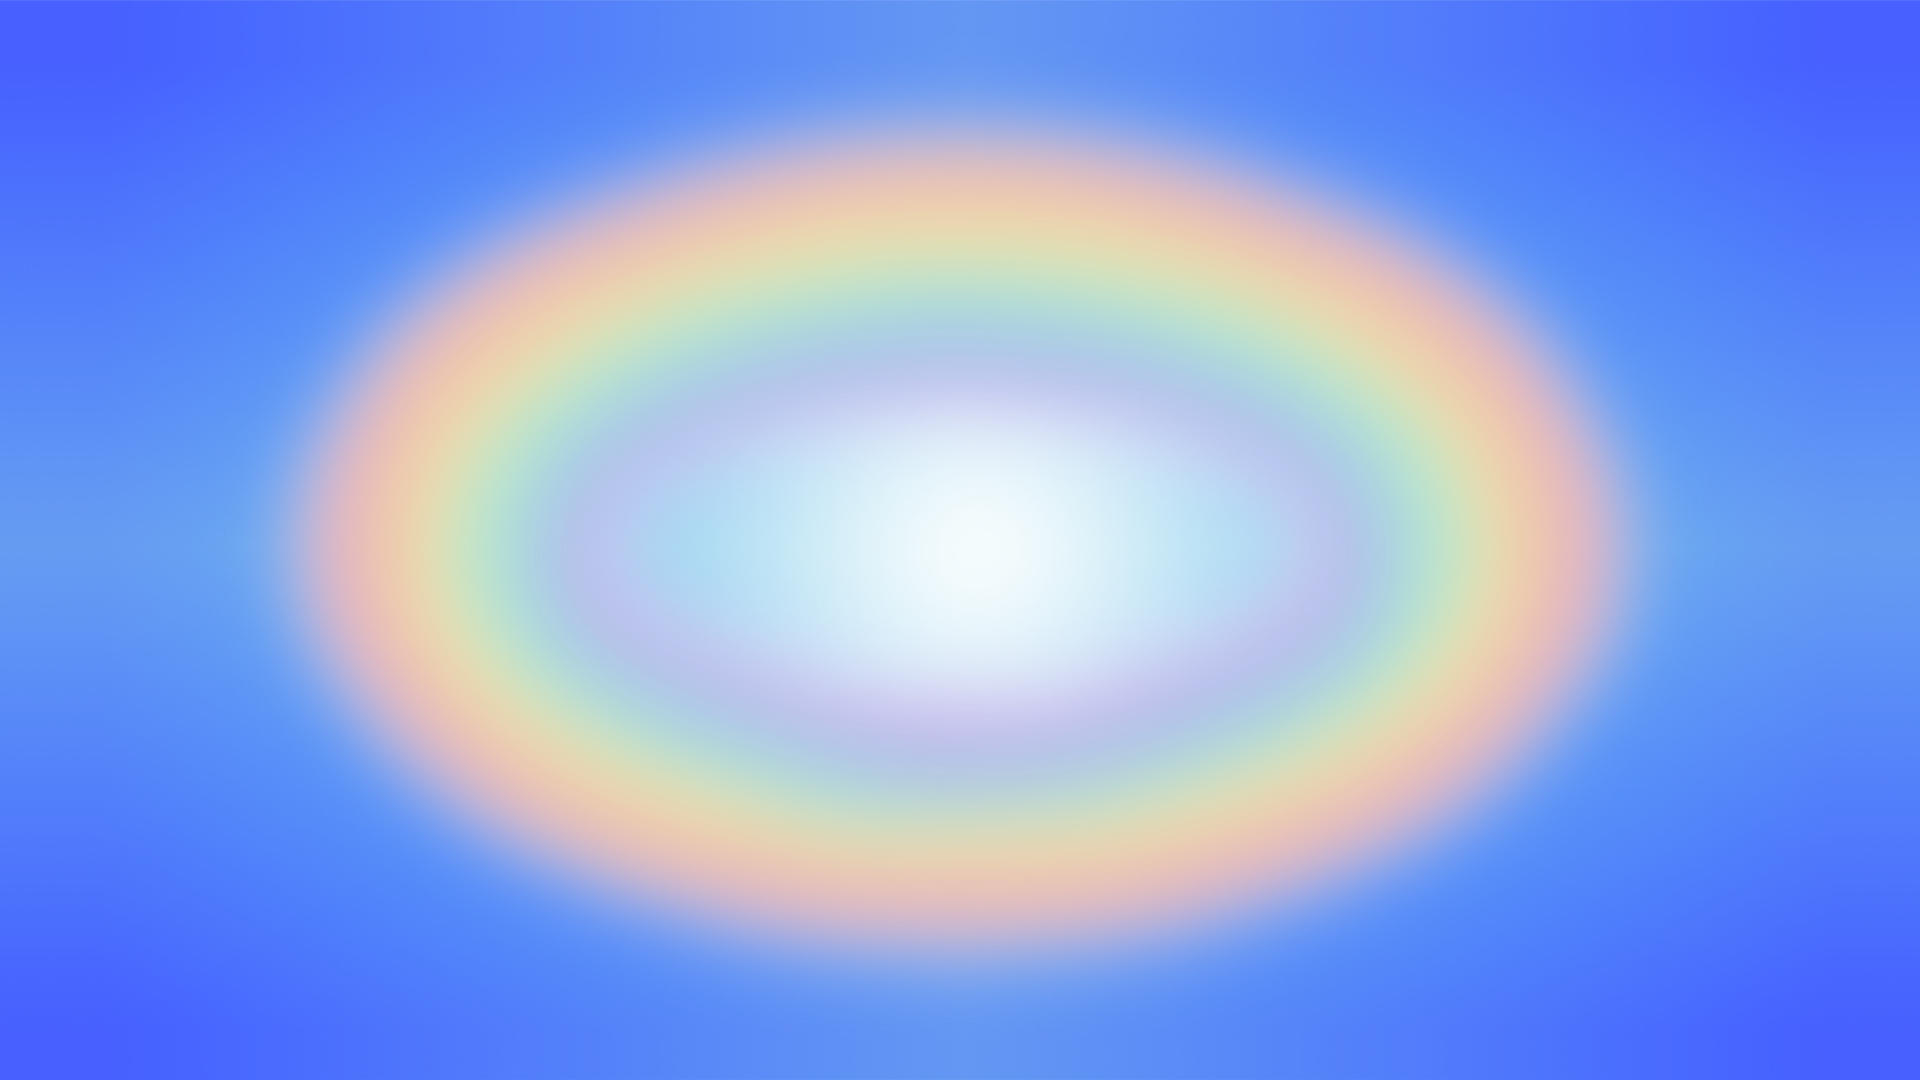
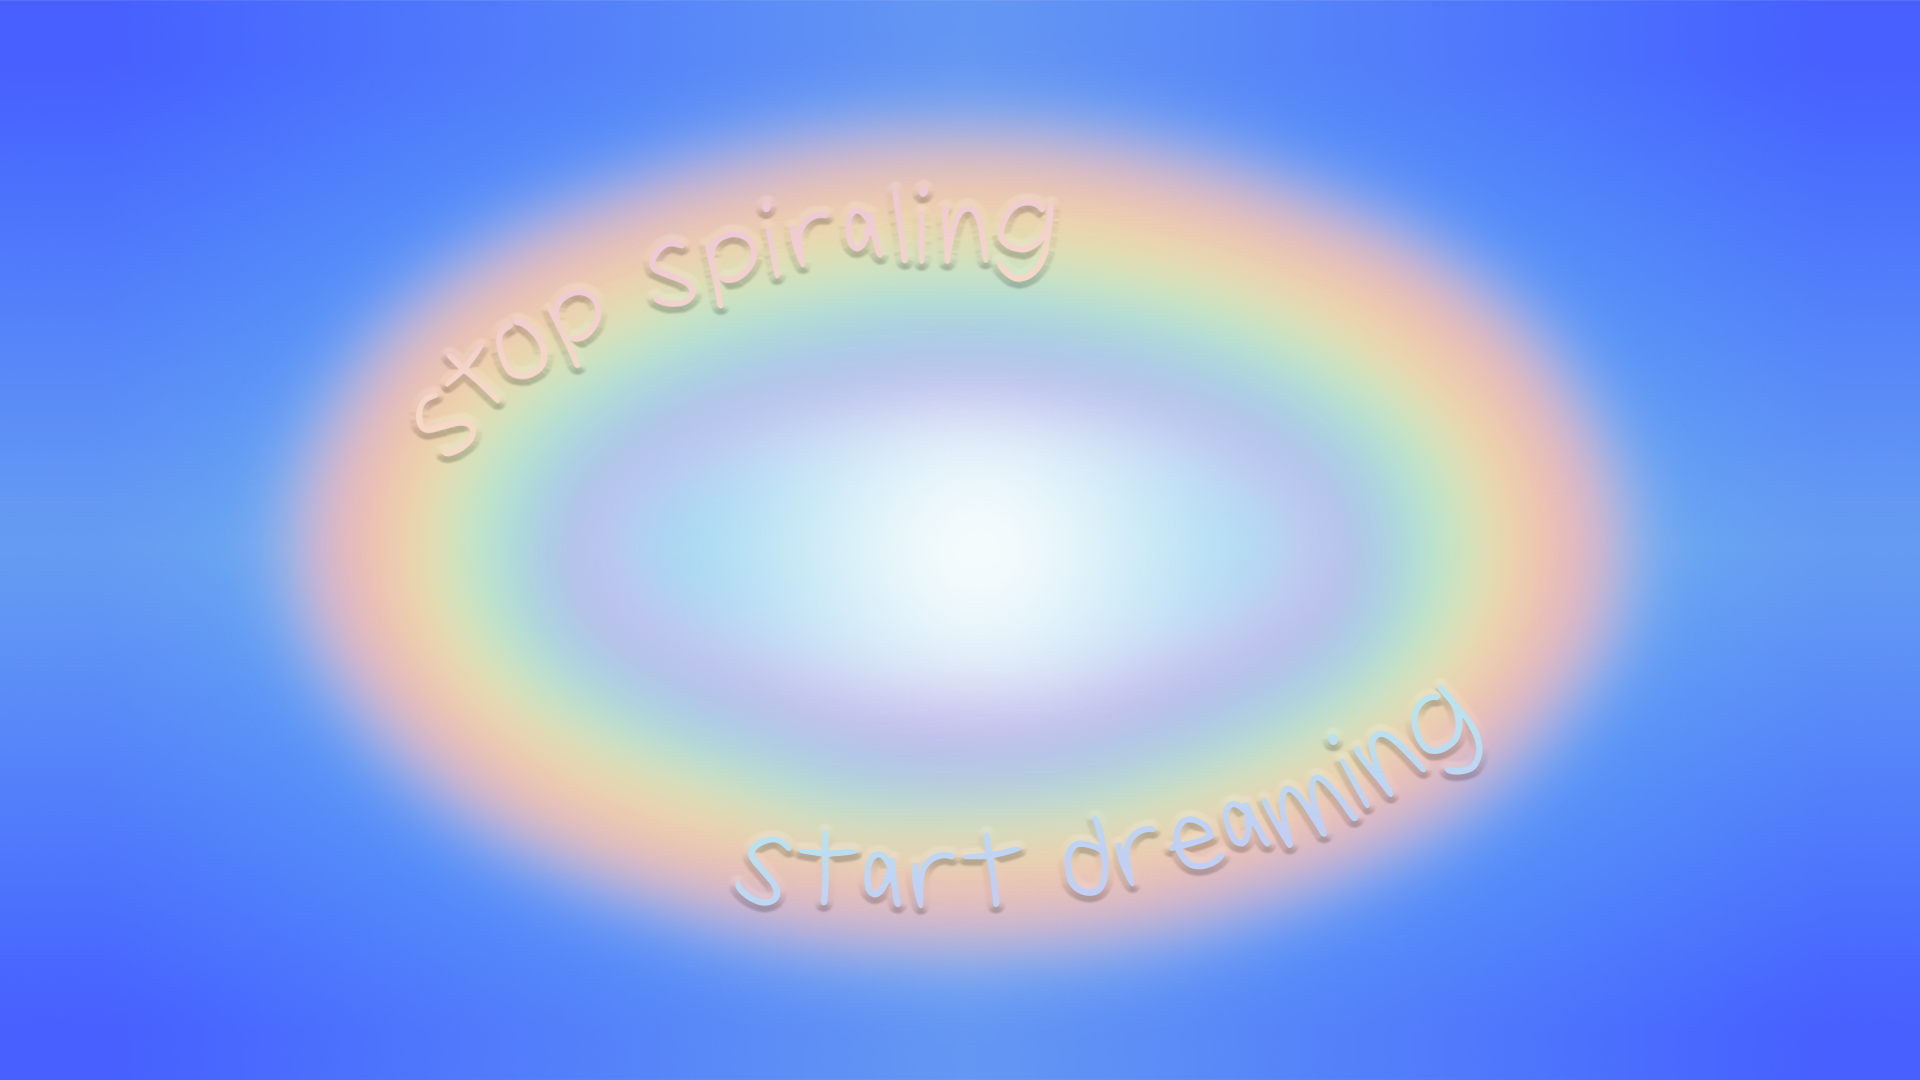
update

diff --git a/index.html b/index.html
@@ -97,26 +97,6 @@ body {
   to   { transform: rotate(360deg); }   /* clockwise */
 }
 
-/* ── TITLE TEXT IMAGES ── */
-.title-spiraling {
-  position: absolute;
-  top: 8vh;
-  left: 15vw;
-  width: 40vw;
-  height: auto;
-  z-index: 4;
-  pointer-events: none;
-}
-.title-dreaming {
-  position: absolute;
-  bottom: 8vh;
-  right: 15vw;
-  width: 40vw;
-  height: auto;
-  z-index: 4;
-  pointer-events: none;
-}
-
 /* ── PORTAL ──────────────────────────────────────────
    portal-wrap     — positions the portal on the page
    portal-inner    — real-height container (rainbow defines height)
@@ -246,27 +226,6 @@ body {
 ══════════════════════════════════════════════════ */
 @media (max-width: 768px) {
 
-  /* ── Titles: rotated to sit along the oval's edge ──────────────
-     The standalone `rotate:` property does work, but the text also
-     needs to be positioned along the oval — so it's set together here.
-     KNOB: the angle in rotate(). Negative tilts the text UP toward the
-     right; positive tilts it DOWN toward the right. */
-  .title-spiraling {
-    top: 11vh;
-    left: 0;
-    width: 74vw;
-    transform-origin: center;
-    transform: rotate(-18deg);
-  }
-  .title-dreaming {
-    top: auto;
-    bottom: 19vh;
-    right: 0;
-    width: 74vw;
-    transform-origin: center;
-    transform: rotate(-25deg);
-  }
-
   /* ── Rainbow: sized by HEIGHT so the portrait oval fits the screen ──
      ONE knob: change the height on .portal-inner to resize the whole
      portal. Smaller vh = smaller oval. The castle/logo re-center to it
@@ -346,16 +305,6 @@ body {
   <div class="spiral spiral-3" data-depth="1.3">
     <img src="assets/elements/spiral-3.png" alt="" aria-hidden="true">
   </div>
-
-  <!-- "stop spiraling" — top left -->
-  <img class="title-spiraling"
-       src="assets/elements/spiraling.png"
-       alt="" aria-hidden="true">
-
-  <!-- "start dreaming" — bottom right -->
-  <img class="title-dreaming"
-       src="assets/elements/dreaming.png"
-       alt="" aria-hidden="true">
 
   <!-- Portal -->
   <div class="portal-wrap">
